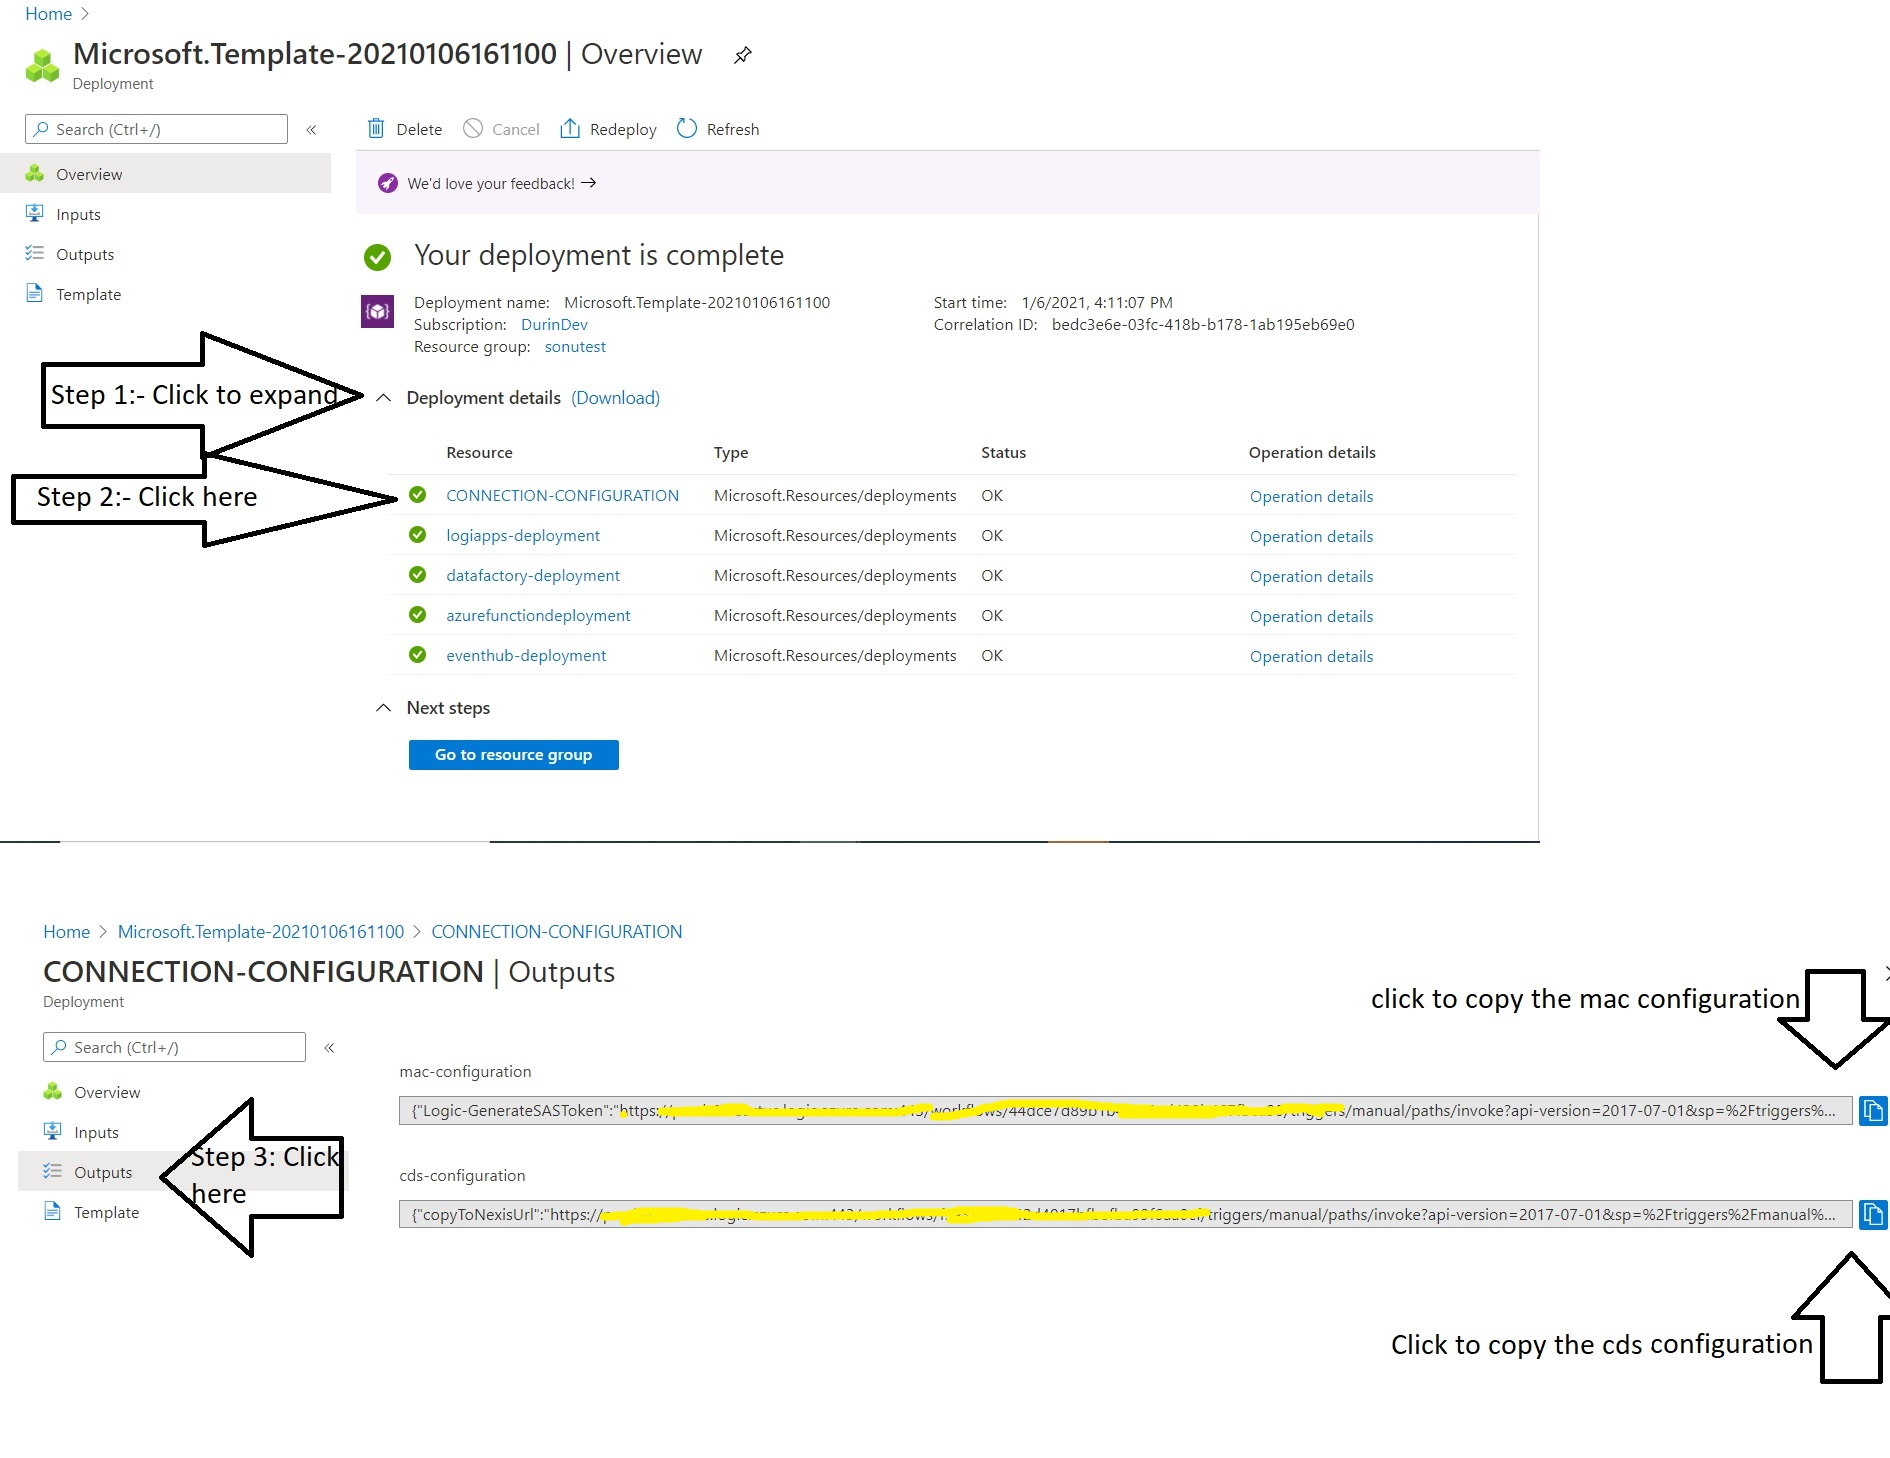
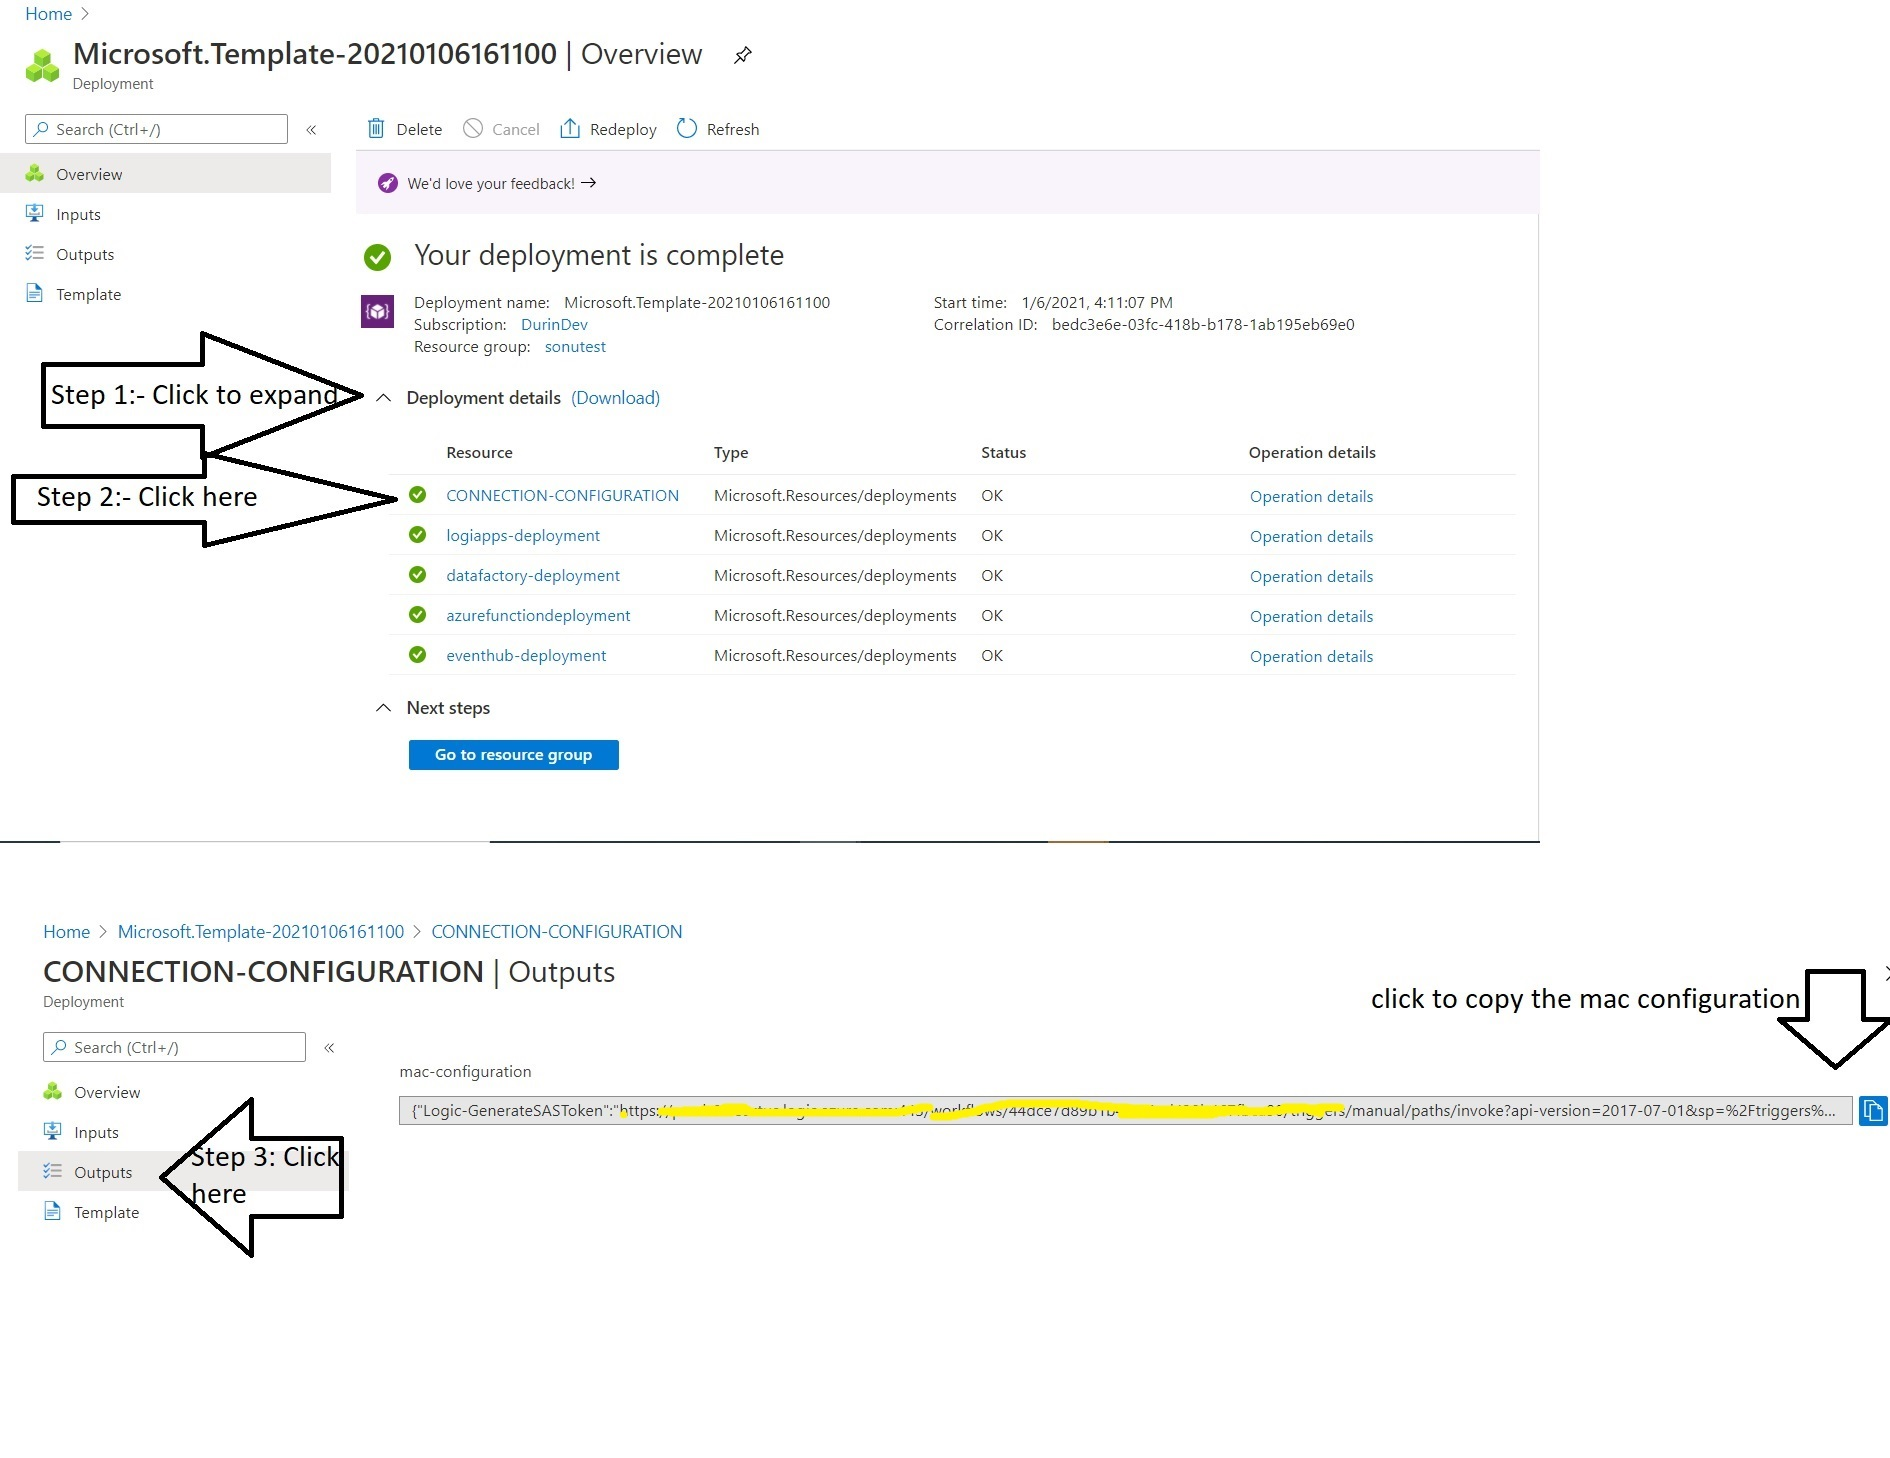
update the documenation

diff --git a/README.md b/README.md
@@ -35,9 +35,9 @@ Click the below button, it will again  redirect you to azure portal, Please sele
 
 ### Mac Client Connection configuration
 
-Once the azure component deployment completes, <b> Expand the Deployment details Section ->  Click on the CONNECTION-CONFIGURATION -> Left pane "output link" -> Copy the MAC AND CDS configuration </b>. you will need this configuration, while setting up your Mac Client.
+Once the azure component deployment completes, <b> Expand the Deployment details Section ->  Click on the CONNECTION-CONFIGURATION -> Left pane "output link" -> Copy the MAC configuration </b>. you will need this configuration, while setting up your Mac Client.
 
-<b> The MAC and CDS configuration will be needed in tenant setup and mac client setup</b>
+<b> The MAC Config is needed for mac client setup</b>
 
 
 <img src="images/step3.jpg" width="900"/>
